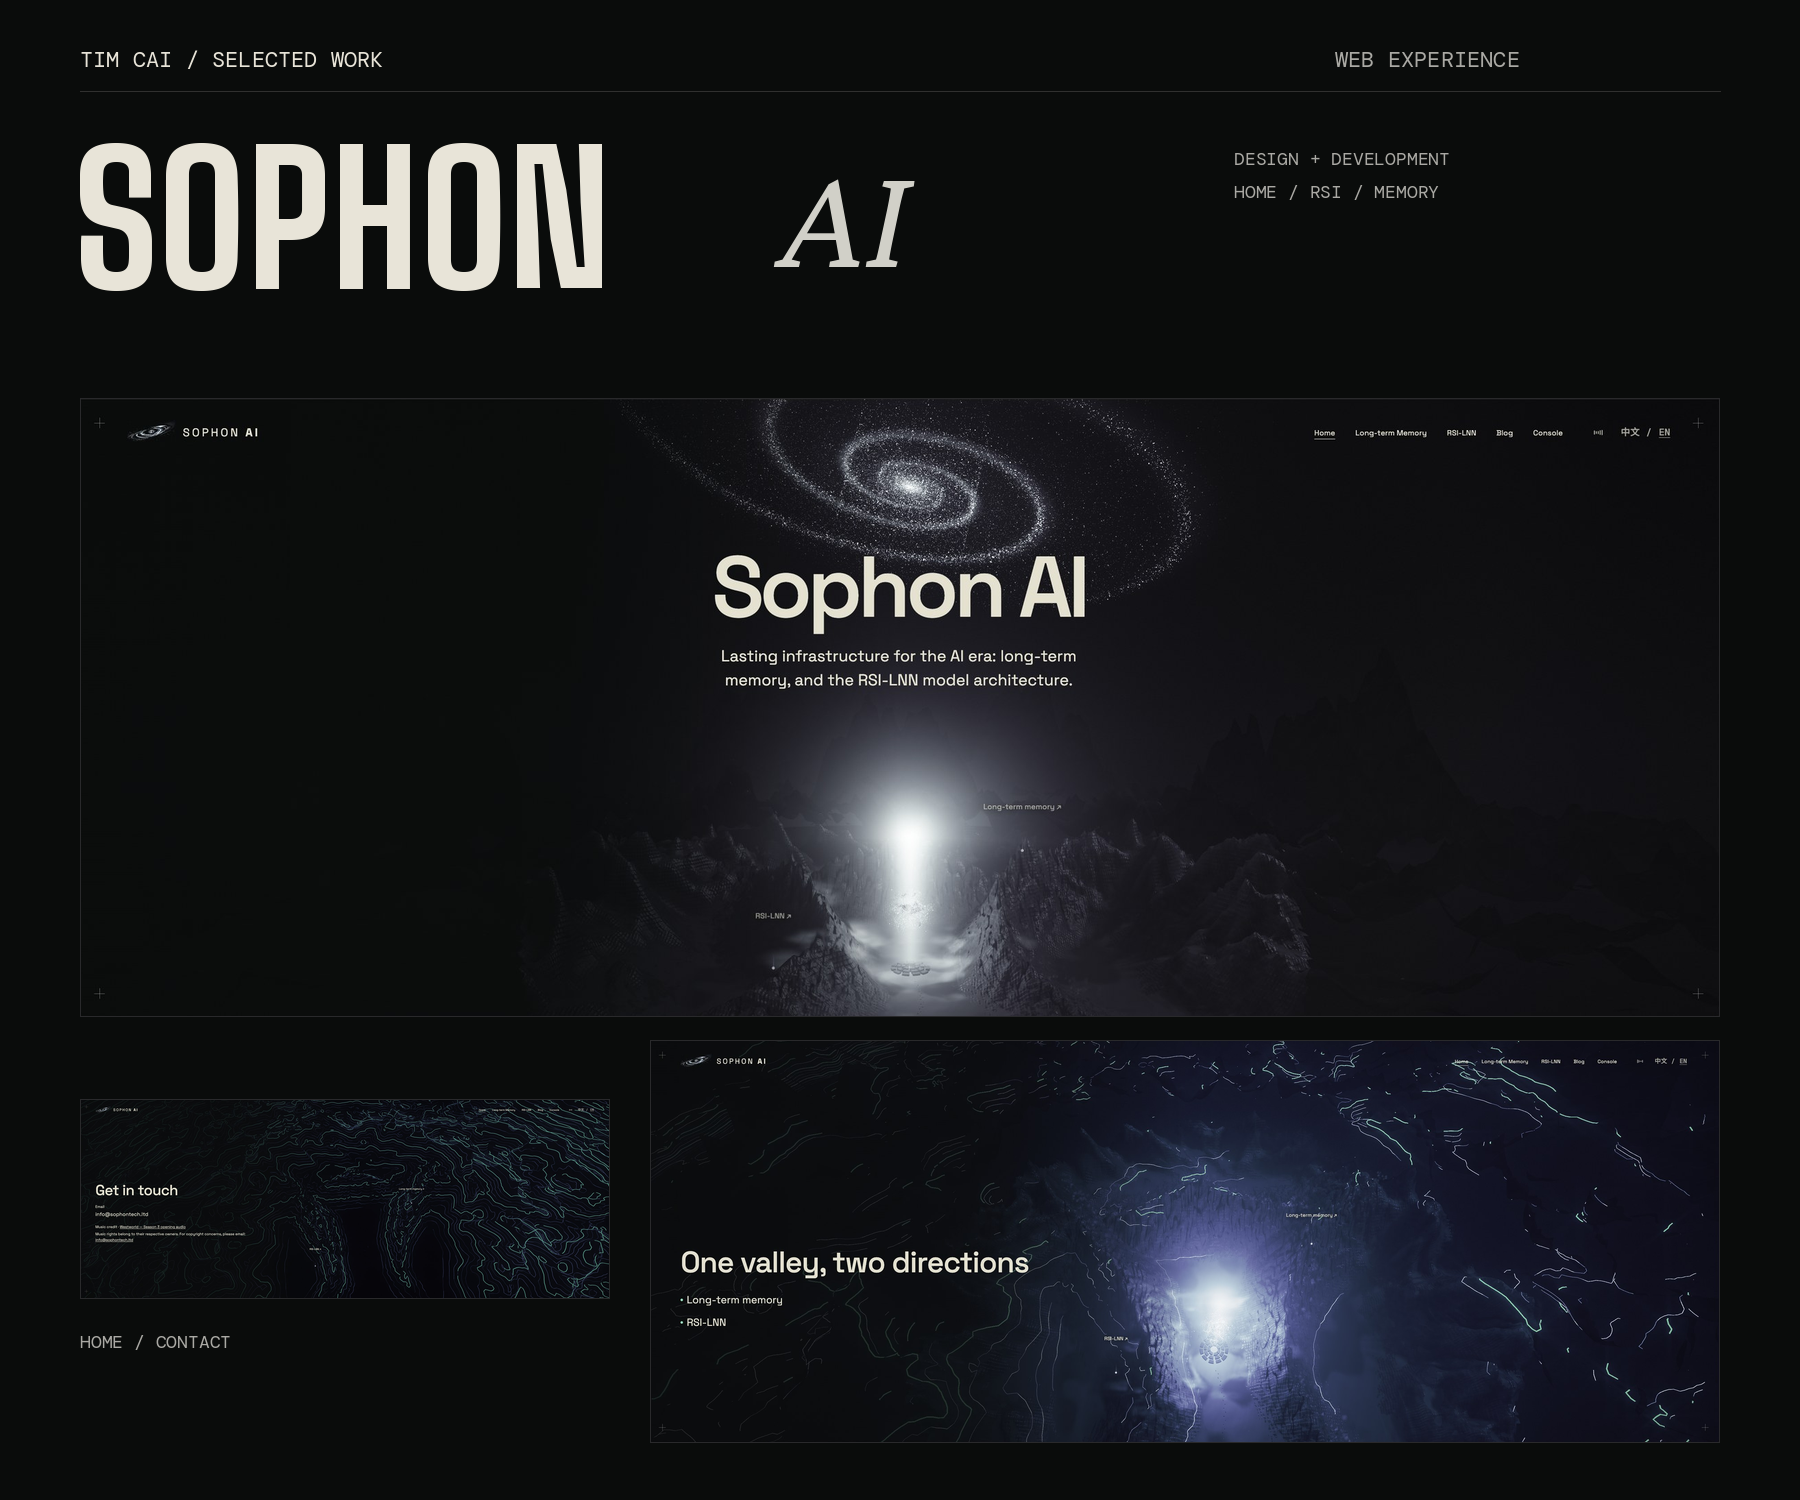
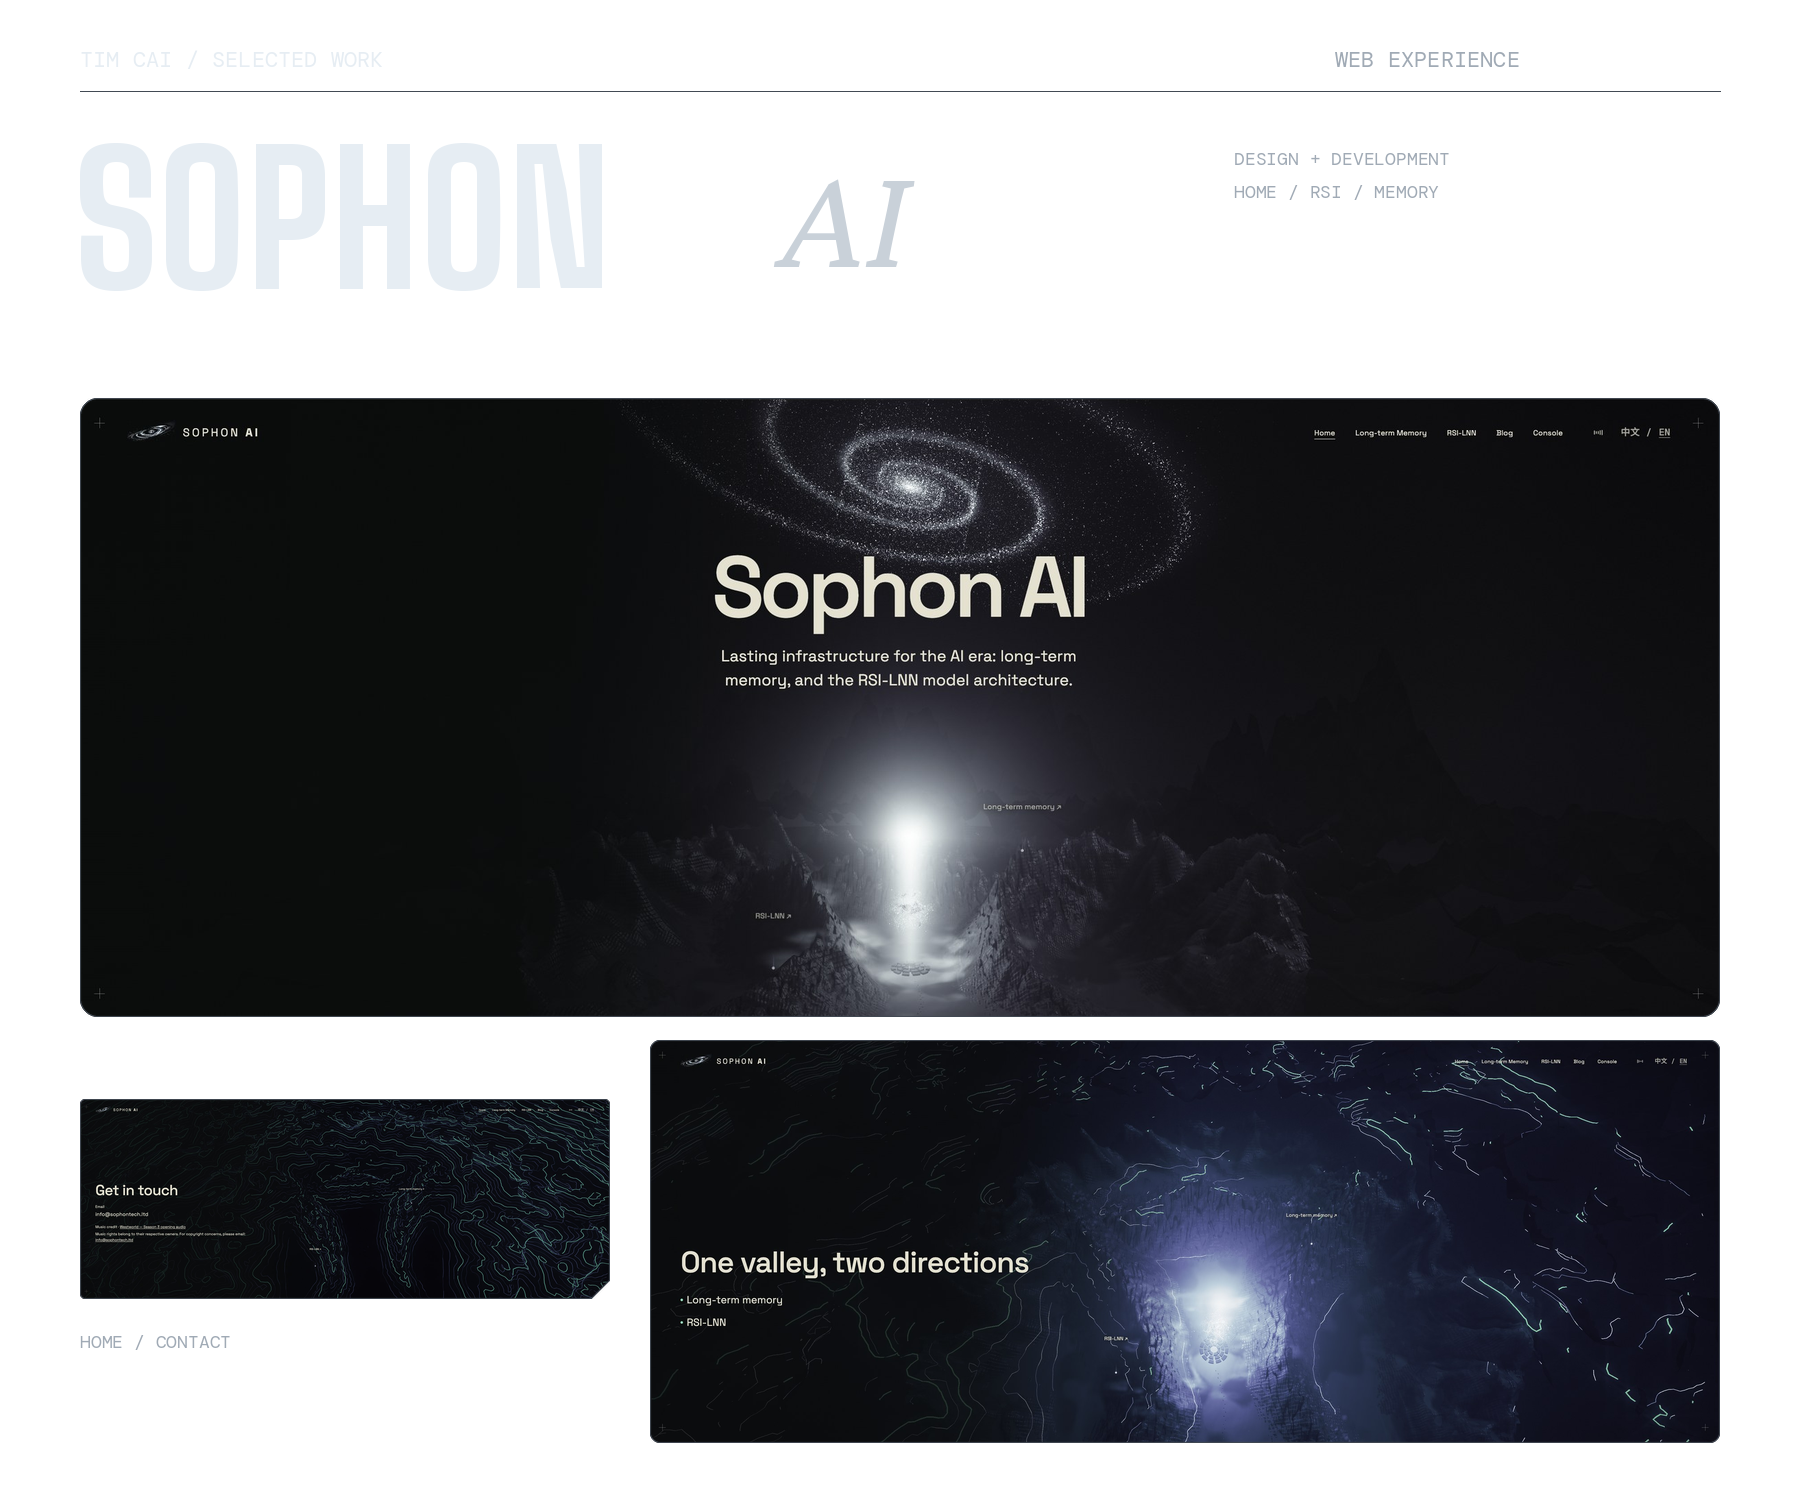
style(profile): blend Sophon posters with theme-aware transparent frames

diff --git a/scripts/build_sophon_poster.py b/scripts/build_sophon_poster.py
@@ -8,23 +8,62 @@ GALLERY = BASE / 'sophon-2026-11'
 FONTS = BASE / 'fonts'
 WIDTH = 1800
 DARK, PAPER, MUTED, GREEN = '#0a0c0b', '#e8e4d8', '#aaa9a4', '#d1d0c8'
-RSI_BACKGROUND = '#101012'
+FRAME, CORNER = '#59636f', '#a7b3c0'
 
 
 def font(name, size):
     return ImageFont.truetype(str(FONTS / name), size)
 
 
-def text(canvas, xy, value, size=22, color=PAPER, face='DMMono-Regular.ttf'):
-    ImageDraw.Draw(canvas).text(xy, value, font=font(face, size), fill=color)
+def text(canvas, xy, value, size=22, color=None, face='DMMono-Regular.ttf'):
+    ImageDraw.Draw(canvas).text(xy, value, font=font(face, size), fill=color or PAPER)
 
 
 def picture(canvas, name, box):
     source = Image.open(GALLERY / f'{name}.jpg')
     canvas.paste(ImageOps.fit(source, box[2:], method=Image.Resampling.LANCZOS), box[:2])
     x, y, width, height = box
-    ImageDraw.Draw(canvas).rectangle((x, y, x + width - 1, y + height - 1),
-                                    outline='#29292b', width=1)
+    style = {
+        'home-hero': (18, 0),
+        'home-contact': (5, 18),
+        'home-valley': (10, 0),
+        'rsi-hero': (18, 0),
+        'rsi-state': (10, 0),
+        'rsi-transition': (4, 20),
+        'rsi-explanation': (8, 0),
+    }[name]
+    frame(canvas, (x, y, width, height), *style)
+
+
+def frame(canvas, box, radius=12, cut=0):
+    """Quiet rounded outline; selected supporting frames have a transparent cut."""
+    x, y, width, height = box
+    scale = 3
+    size = (width * scale, height * scale)
+
+    def silhouette(inset):
+        mask = Image.new('L', size, 0)
+        draw = ImageDraw.Draw(mask)
+        right, bottom = size[0] - 1, size[1] - 1
+        draw.rounded_rectangle((inset, inset, right - inset, bottom - inset),
+                               radius=max(0, radius * scale - inset), fill=255)
+        if cut:
+            # The diagonal remains parallel for the inset outline.
+            diagonal = cut * scale + round(inset * 1.414)
+            draw.polygon([(right, bottom - diagonal),
+                          (right - diagonal, bottom), (right, bottom)], fill=0)
+        return mask
+
+    from PIL import ImageChops
+    outer = silhouette(0)
+    inner = silhouette(3)  # one source pixel; subtle at README display width
+    alpha = outer.resize((width, height), Image.Resampling.LANCZOS)
+    region = canvas.crop((x, y, x + width, y + height))
+    region.putalpha(alpha)
+    canvas.paste(region, (x, y))
+    border = Image.new('RGBA', size, FRAME)
+    border.putalpha(ImageChops.subtract(outer, inner))
+    canvas.alpha_composite(border.resize((width, height), Image.Resampling.LANCZOS), (x, y))
 
 
 def label(canvas, y, number, title, light=False):
@@ -32,12 +71,16 @@ def label(canvas, y, number, title, light=False):
     text(canvas, (145, y), title, color=DARK if light else PAPER)
 
 
-def build():
-    home = Image.new('RGB', (WIDTH, 1500), DARK)
+def build(light=False):
+    global PAPER, MUTED, GREEN, FRAME, CORNER
+    PAPER, MUTED, GREEN = (('#24292f', '#57606a', '#424a53') if light
+                           else ('#e6edf3', '#a0aab5', '#c9d1d9'))
+    FRAME, CORNER = ('#b7bec6', '#57606a') if light else ('#424a54', '#a7b3c0')
+    home = Image.new('RGBA', (WIDTH, 1500), (0, 0, 0, 0))
     draw = ImageDraw.Draw(home)
     text(home, (80, 45), 'TIM CAI / SELECTED WORK')
     text(home, (1335, 45), 'WEB EXPERIENCE', color=MUTED)
-    draw.line((80, 91, 1720, 91), fill='#30302f')
+    draw.line((80, 91, 1720, 91), fill=FRAME)
     text(home, (73, 111), 'SOPHON', 180, face='BigShoulders-Bold.ttf')
     text(home, (780, 132), 'AI', 150, GREEN, 'CrimsonPro-Italic.ttf')
     text(home, (1234, 147), 'DESIGN + DEVELOPMENT', 18, MUTED)
@@ -47,7 +90,7 @@ def build():
     picture(home, 'home-valley', (650, 1040, 1070, 403))
     text(home, (80, 1330), 'HOME / CONTACT', 18, MUTED)
 
-    rsi = Image.new('RGB', (WIDTH, 1860), RSI_BACKGROUND)
+    rsi = Image.new('RGBA', (WIDTH, 1860), (0, 0, 0, 0))
     picture(rsi, 'rsi-hero', (80, 95, 1640, 618))
     picture(rsi, 'rsi-state', (80, 741, 1040, 392))
     picture(rsi, 'rsi-transition', (1150, 741, 570, 215))
@@ -56,21 +99,24 @@ def build():
     picture(rsi, 'rsi-explanation', (80, 1170, 1640, 601))
     text(rsi, (80, 1801), 'WHAT REMAINS AFTER AN INTERACTION?', 19, MUTED)
 
-    memory = Image.new('RGB', (WIDTH, 1000), PAPER)
-    text(memory, (80, 98), 'What remains.', 110, DARK, 'CrimsonPro-Italic.ttf')
+    memory = Image.new('RGBA', (WIDTH, 1000), (0, 0, 0, 0))
+    text(memory, (80, 98), 'What remains.', 110, PAPER, 'CrimsonPro-Italic.ttf')
     source = Image.open(BASE / 'sophon.jpg')
     height = round(source.height * 1640 / source.width)
     memory.paste(source.resize((1640, height), Image.Resampling.LANCZOS), (80, 250))
-    text(memory, (80, 964), 'TIMCAI06 / SOPHON AI', 16, '#58564f')
+    frame(memory, (80, 250, 1640, height), radius=12)
+    text(memory, (80, 964), 'TIMCAI06 / SOPHON AI', 16, MUTED)
 
     # Trim the former chapter-label strips; README supplies native headings.
     rsi = rsi.crop((0, 80, WIDTH, 1790))
     memory = memory.crop((0, 85, WIDTH, 1000))
     panels = {'home': home, 'rsi': rsi, 'memory': memory}
     for name, canvas in panels.items():
-        canvas.save(BASE / f'sophon-poster-{name}.png', optimize=True)
+        suffix = '-light' if light else ''
+        canvas.save(BASE / f'sophon-poster-{name}{suffix}.png', optimize=True)
     return panels
 
 
 if __name__ == '__main__':
     build()
+    build(light=True)

diff --git a/README.md b/README.md
@@ -136,10 +136,20 @@
 <p><sub>代码仓库暂未公开</sub></p>
 <p>围绕长期记忆与 RSI-LNN 构建的官网设计与开发，结合交互叙事、前端动效与 3D 视觉。</p>
 <h3>01 / Home</h3>
-<a href="./assets/showcase/sophon-poster-home.png"><img src="./assets/showcase/sophon-poster-home.png?v=41f0a4d5" width="100%" alt="Sophon 官网首页：以星系与山谷首屏为主图，双方向入口和等高线联系页为附图"></a>
+<a href="./assets/showcase/sophon-poster-home.png">
+<picture>
+  <source media="(prefers-color-scheme: light)" srcset="./assets/showcase/sophon-poster-home-light.png?v=15af3e4d">
+  <img src="./assets/showcase/sophon-poster-home.png?v=6b011e89" width="100%" alt="Sophon 官网首页：以星系与山谷首屏为主图，双方向入口和等高线联系页为附图">
+</picture>
+</a>
 
 <h3>02 / RSI-LNN</h3>
-<a href="./assets/showcase/sophon-poster-rsi.png"><img src="./assets/showcase/sophon-poster-rsi.png?v=832a6c38" width="100%" alt="RSI-LNN：以 What remains after an interaction? 状态演化说明为主图，绿色转场动画静态帧与 Continuous-time state 为附图，顶部为粒子 SOPHON Hero"></a>
+<a href="./assets/showcase/sophon-poster-rsi.png">
+<picture>
+  <source media="(prefers-color-scheme: light)" srcset="./assets/showcase/sophon-poster-rsi-light.png?v=04a86998">
+  <img src="./assets/showcase/sophon-poster-rsi.png?v=505d3c59" width="100%" alt="RSI-LNN：以 What remains after an interaction? 状态演化说明为主图，绿色转场动画静态帧与 Continuous-time state 为附图，顶部为粒子 SOPHON Hero">
+</picture>
+</a>
 <details>
 <summary><sub>查看 RSI-LNN 完整截图 · 7 张</sub></summary>
 
@@ -169,7 +179,12 @@
 <br>
 
 <h3>03 / Long-term Memory</h3>
-<a href="./assets/showcase/sophon-poster-memory.png"><img src="./assets/showcase/sophon-poster-memory.png?v=09036675" width="100%" alt="长期记忆页面原有截图：米白色流体视觉、记忆叙事与 Bitemporal 章节"></a>
+<a href="./assets/showcase/sophon-poster-memory.png">
+<picture>
+  <source media="(prefers-color-scheme: light)" srcset="./assets/showcase/sophon-poster-memory-light.png?v=3cbf6470">
+  <img src="./assets/showcase/sophon-poster-memory.png?v=60b6558c" width="100%" alt="长期记忆页面原有截图：米白色流体视觉、记忆叙事与 Bitemporal 章节">
+</picture>
+</a>
 </details>
 
 <br>

diff --git a/assets/editor/README.md b/assets/editor/README.md
@@ -79,3 +79,5 @@ The RSI overview places Continuous-time state beneath the transition frame on th
 ## Sophon editorial panels
 
 `python3 scripts/build_sophon_poster.py` builds the three `sophon-poster-*.png` panels from the existing JPEG gallery and unchanged original `sophon.jpg`. The Home panel includes all three Home frames; RSI presents Hero, continuous state, transition and explanation, with all seven source views retained in the README disclosure. Memory embeds the complete original four-frame collage. Fonts and OFL licenses are vendored in `assets/showcase/fonts/`. Run `scripts/stamp_readme.py` after rebuilding. Native chapter headings are preserved; duplicate labels are removed from the panels.
+
+Poster panels use transparent RGBA canvases so surrounding space inherits the GitHub page background. `<picture>` selects a light text/rail palette for dark themes and a dark palette for light themes. Screenshot pixels remain opaque; a one-pixel muted gray border uses different corner radii for lead and supporting images. Only the Home contact and RSI transition frames have a small transparent cut at the bottom right; no folded triangle is drawn. The image is masked to the same outline. Both palettes are generated by the poster builder.
